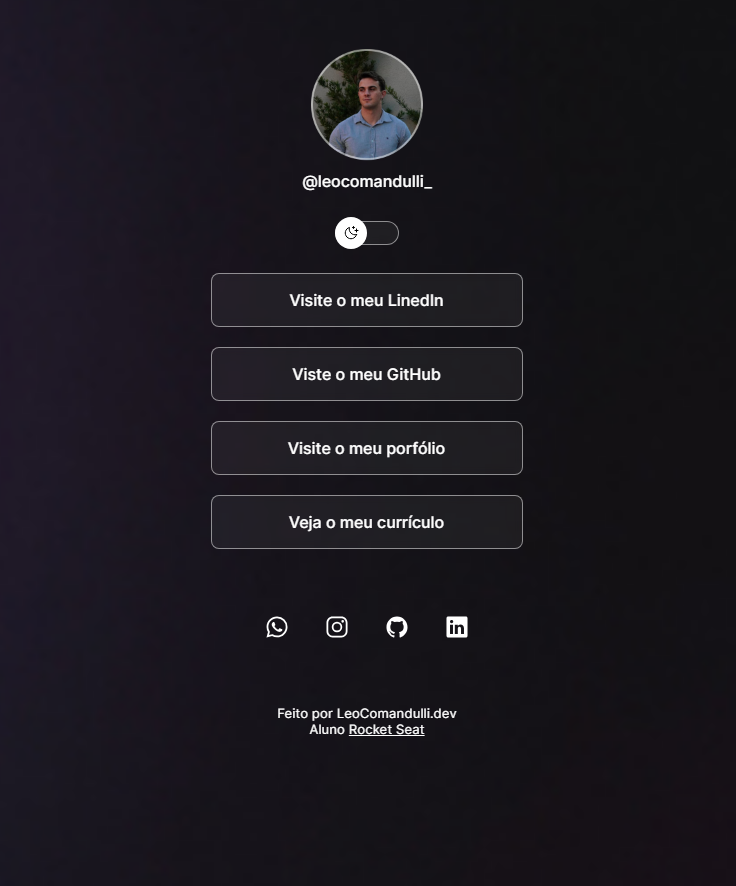
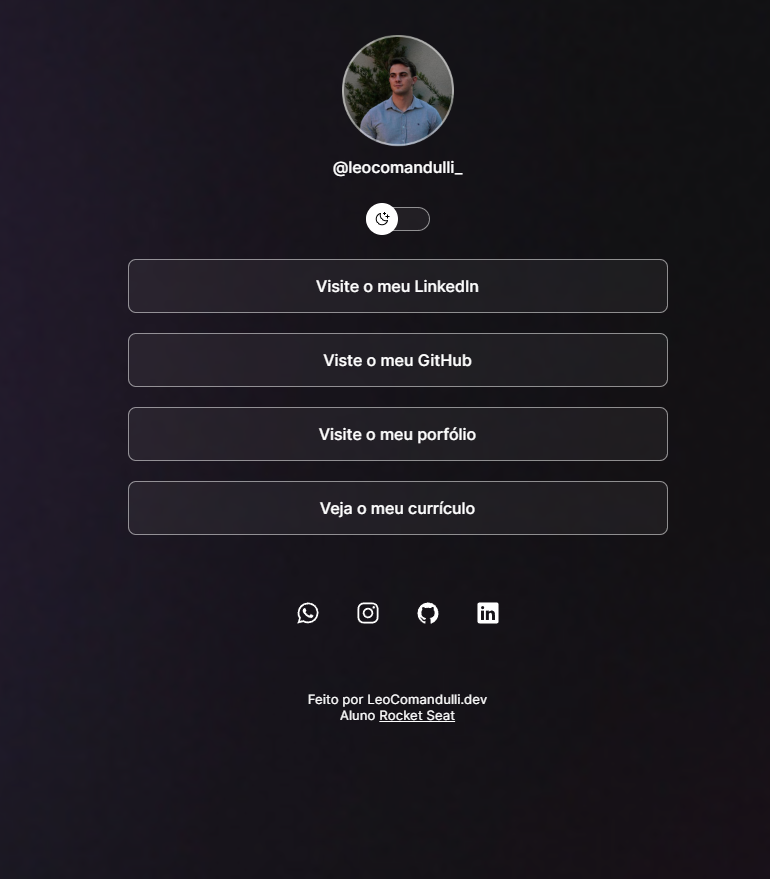
Ajustes 01

diff --git a/index.html b/index.html
@@ -49,7 +49,7 @@
           <a
             href="https://www.linkedin.com/in/leonardocomandulli/"
             target="_blank"
-            >Visite o meu LinedIn</a
+            >Visite o meu LinkedIn</a
           >
           <!-- target="_blank" abre uma nova guia para o link-->
         </li>
